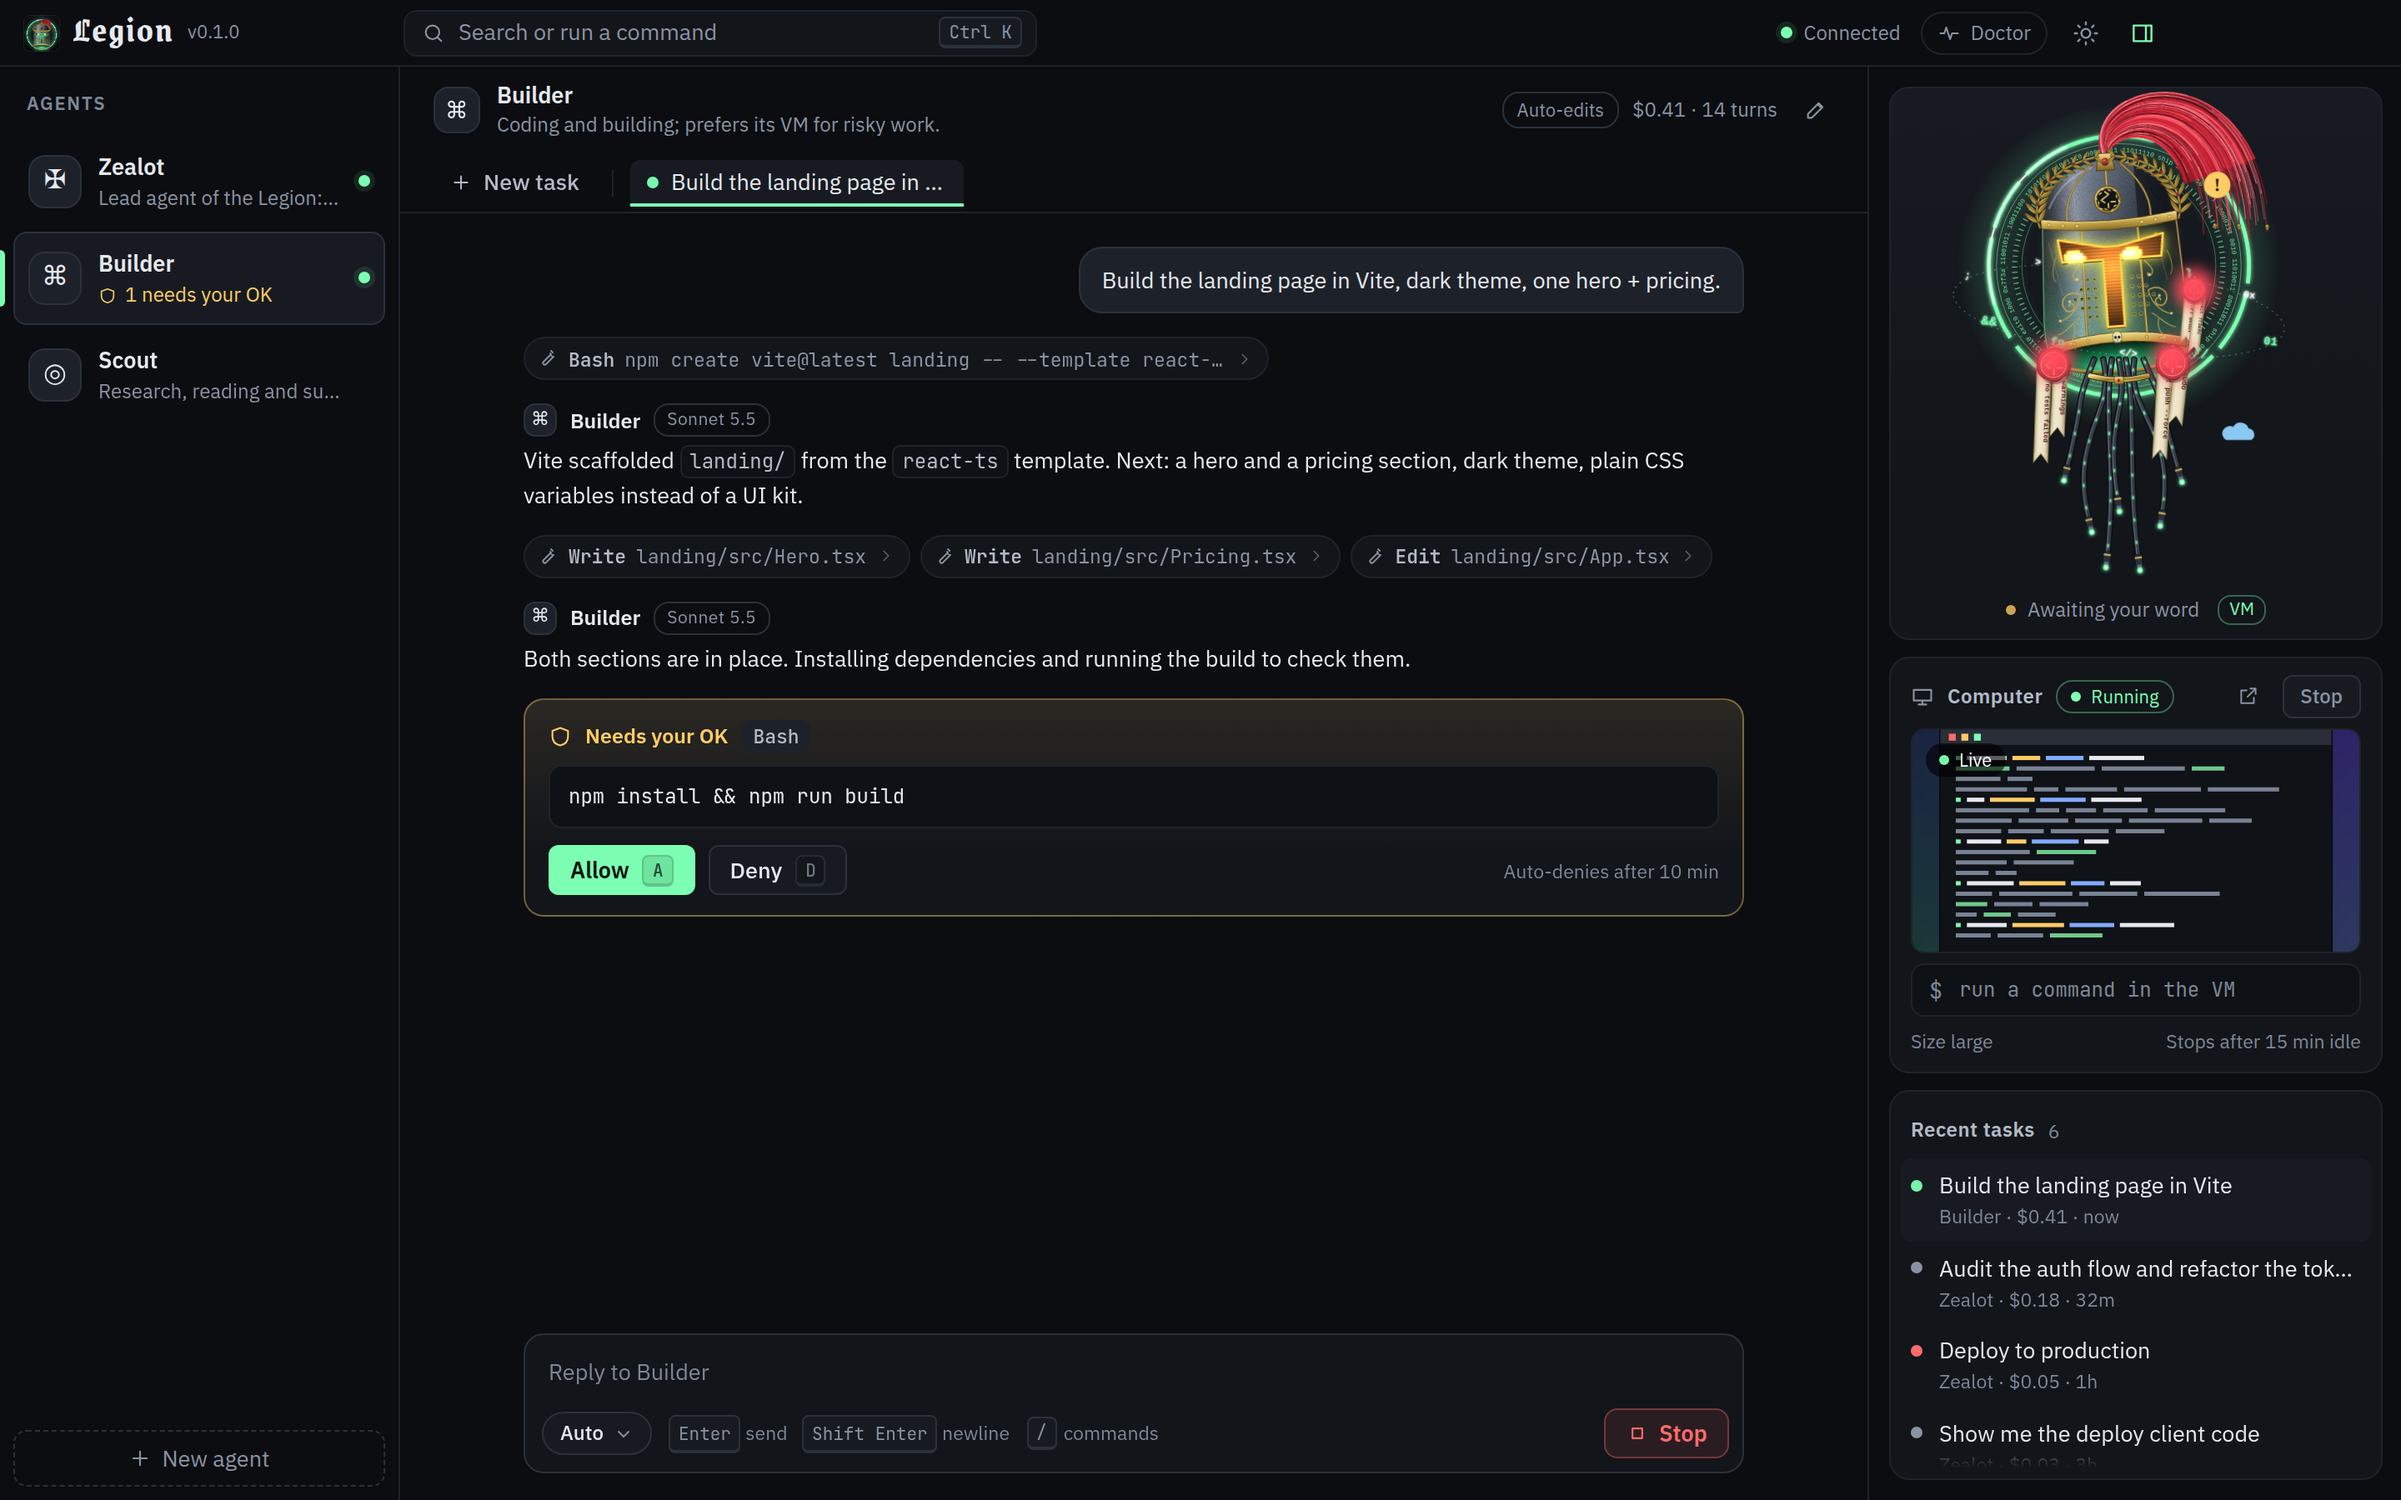
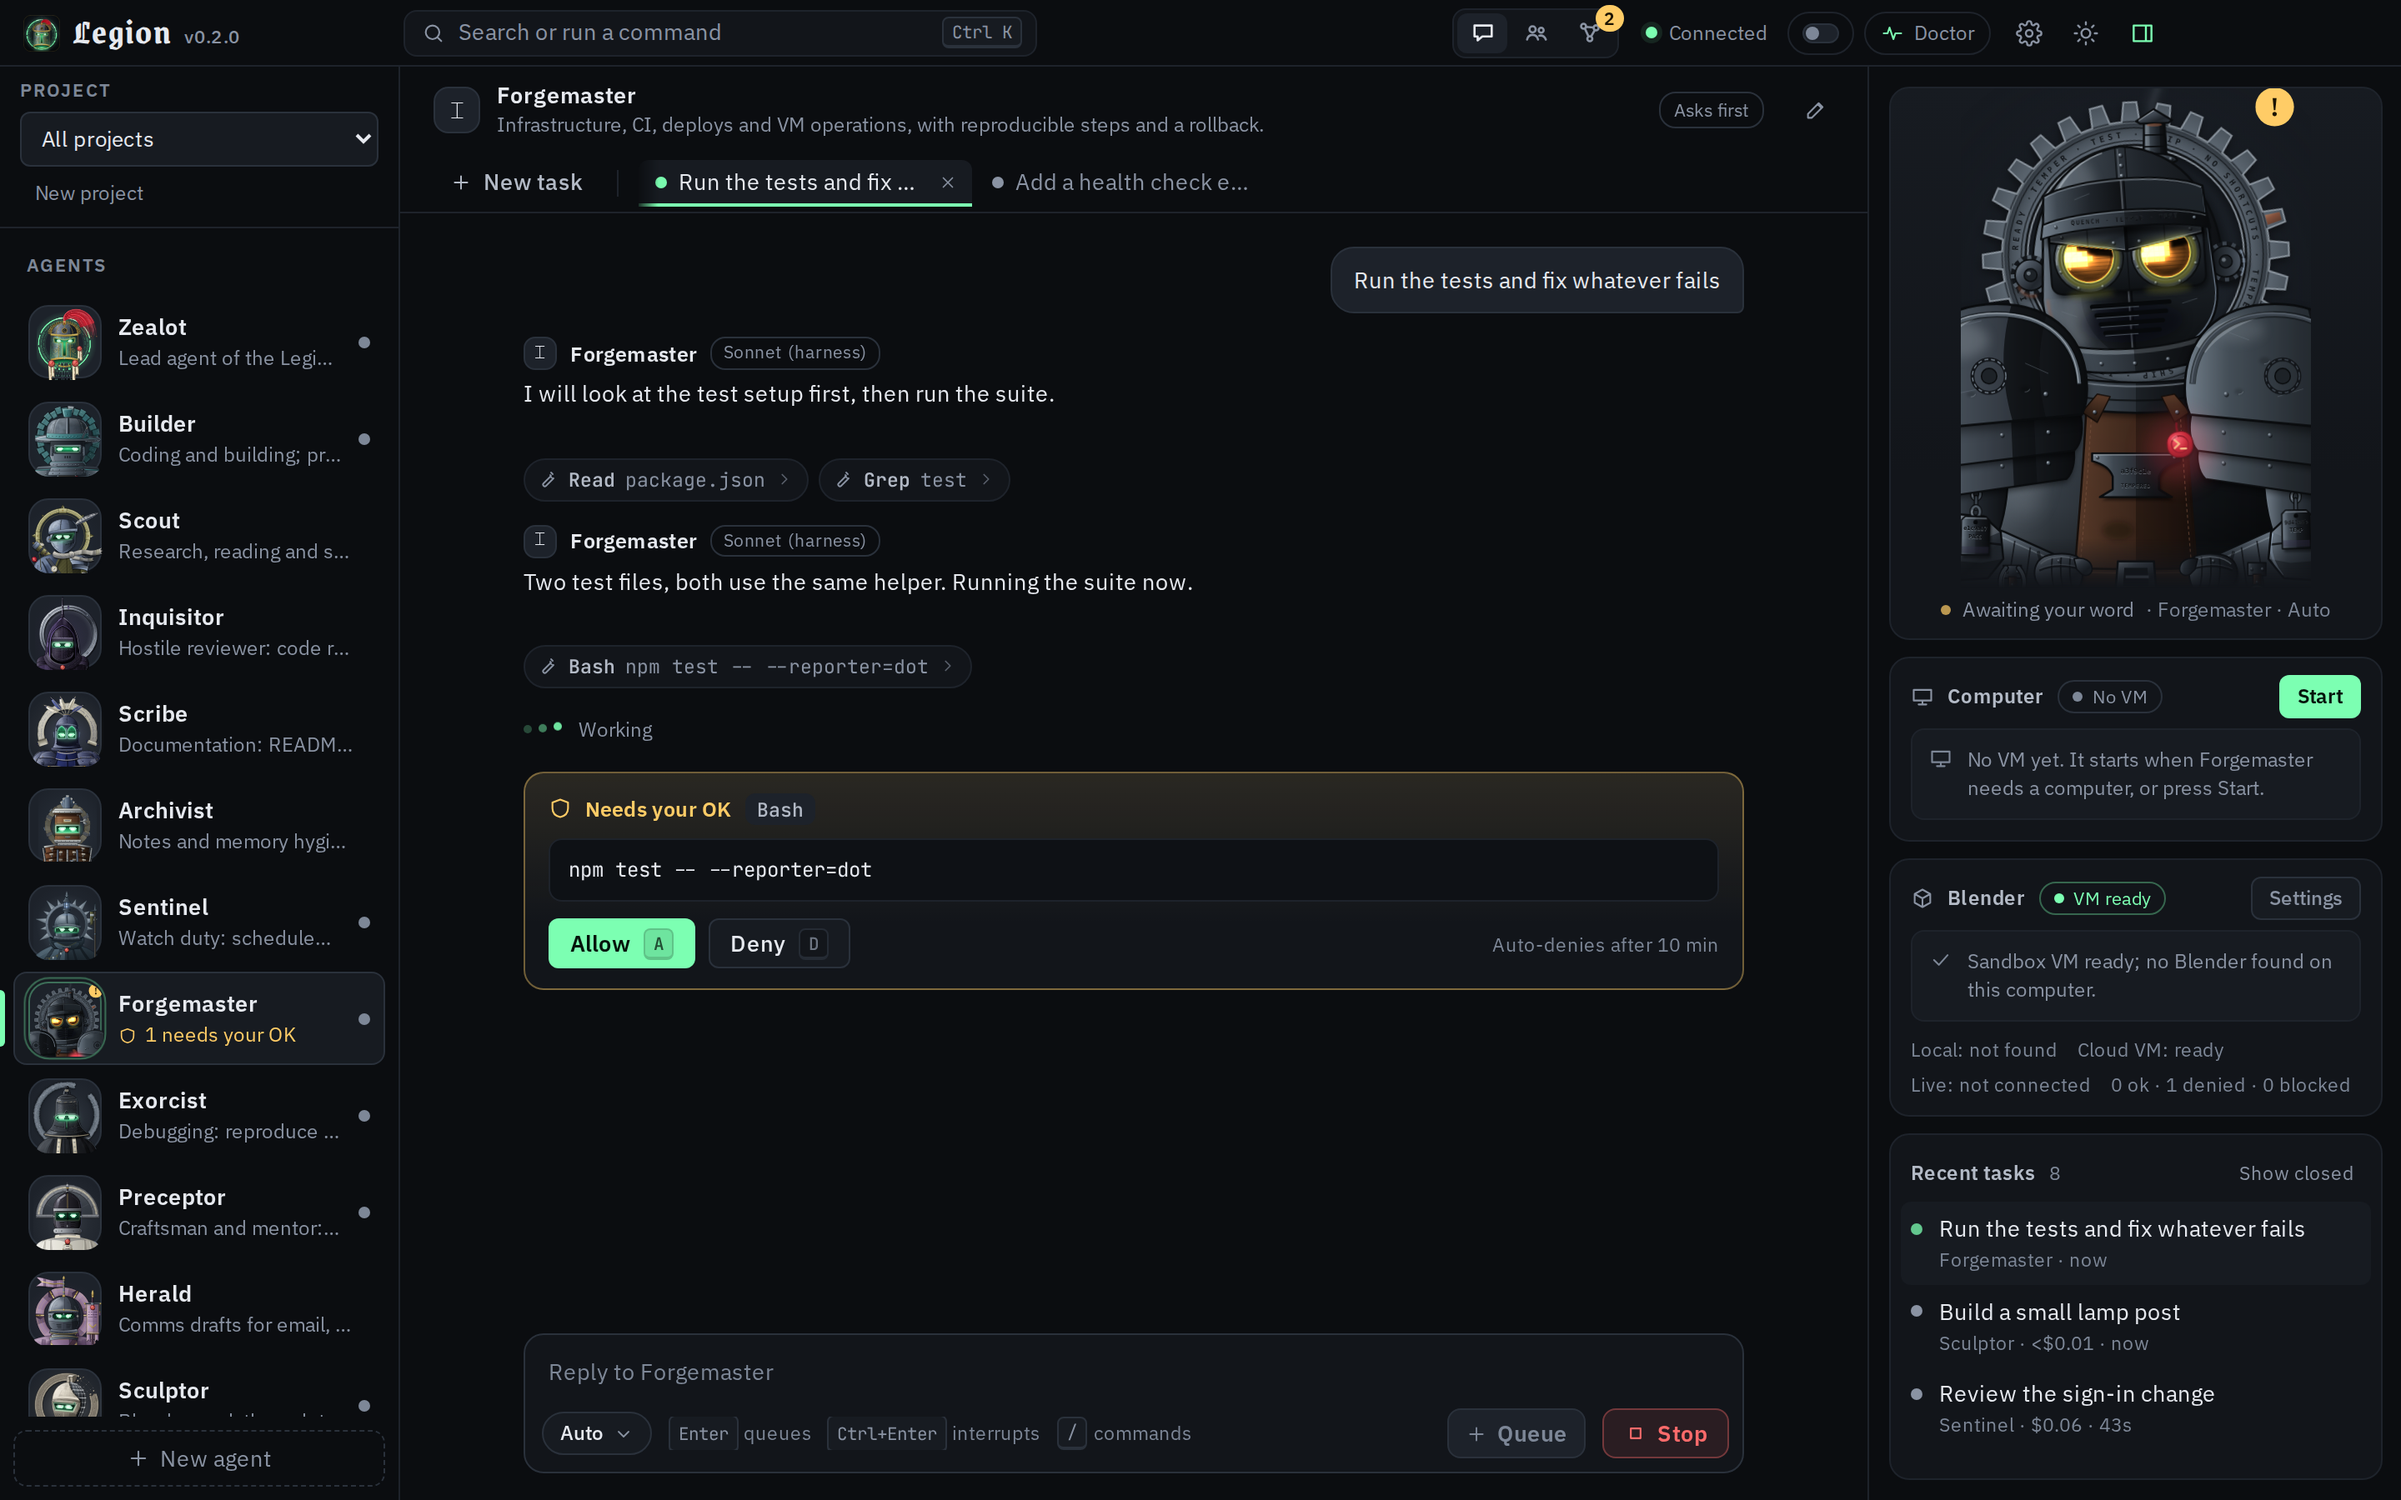
docs: fresh dark-theme main-window screenshot (from the merged tree), alt text matched

diff --git a/README.md b/README.md
@@ -30,7 +30,7 @@ Claude Code and Cowork can drive Legion too, over MCP.
 **Legion is Claude-only.** Every agent runs on a Claude model through the Claude Agent SDK. Other model providers are not supported in v1 (see [Later](#later)).
 
 <p align="center">
-  <img src="docs/images/app-dark.png" alt="Legion's main window in the dark theme: agent rail, a task thread with tool calls and an inline approval card, the mascot, a live VM preview and recent tasks" width="900">
+  <img src="docs/images/app-dark.png" alt="Legion's main window in the dark theme: agent rail, a task thread with tool calls and an inline approval card, the mascot, the Computer panel and recent tasks" width="900">
 </p>
 
 <details>
